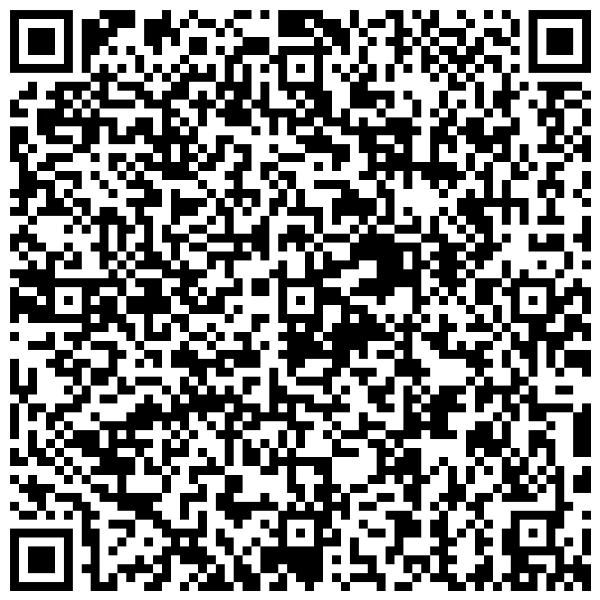
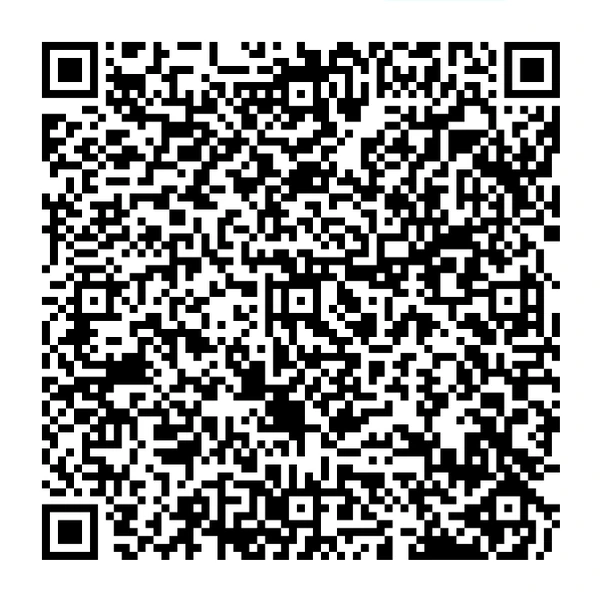
ジャパンカップのチケット：予約番号を差しかえ（当日まで印刷できる番号に）
前の番号（5MGFBQSQ）は期限が 11/28 23:59 で、レース当日に印刷できなかった。
上げなおしてもらった JM86QPZX は 11/29 23:59 まで。

- 予約番号と期限を更新
- QRは画面写真から四隅を取って切り直し（600x600）。切ったあとも同じ中身に読めるのを確認

diff --git a/js/afro-ticket.js b/js/afro-ticket.js
@@ -29,8 +29,8 @@ var TICKETS = [
     date: '2026-11-29',
     place: '東京競馬場',
     course: '芝 2400m',
-    no: '5MGFBQSQ',
-    until: '2026-11-28 23:59',
+    no: 'JM86QPZX',
+    until: '2026-11-29 23:59',
     paper: 'フォト用紙L・カラー',
     qr: 'images/ticket/2026-11-29_qr.webp',
     pics: ['images/ticket/2026-11-29.webp']
